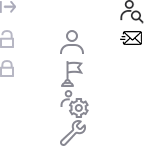
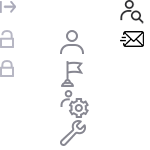
디자인 수정

Changed region(s): [[0.8, 0.1867, 0.96, 0.32]]

diff --git a/assets/scss/_partial/_check.scss b/assets/scss/_partial/_check.scss
@@ -190,7 +190,7 @@ input[type=radio]{
             + label{
                 display: inline-block !important;
                 min-width: rem(65);
-                line-height: rem(44);
+                line-height: rem(42);
                 padding: 0 rem(25);
                 margin-right: rem(5);
                 text-align: center;
@@ -312,7 +312,7 @@ input[type=radio]{
         input[type=radio]{
             + label{
                 min-width: auto;
-                line-height: rem(24);
+                line-height: rem(29);
                 padding: 0 rem(5);
             }
             
@@ -320,7 +320,7 @@ input[type=radio]{
             + input[type=hidden]{
                 + label{
                     min-width: auto;
-                    line-height: rem(24);
+                    line-height: rem(29);
                     padding: 0 rem(5);
                 }
             }
@@ -463,7 +463,7 @@ input[type=radio]{
                 //width: rem(63); //221202
                 width: rem(72);  
                 min-width: rem(60);
-                line-height: rem(32);
+                line-height: rem(29);
                 margin-right: -2px;            
             }        
         }
@@ -472,7 +472,7 @@ input[type=radio]{
         input[type=checkbox],
         input[type=radio]{
             + label{
-                line-height: rem(35);
+                line-height: rem(34);
                 padding: 0 rem(6);
                 min-width: max-content;      
             }        

diff --git a/view/styleGuide.html b/view/styleGuide.html
@@ -439,7 +439,7 @@
                             </li>            
                             <li>
                                 <span style="width:150px;">only icon</span>
-                                <span class="size">min 48px * 44px</span>
+                                <span class="size">min 44px * 44px</span>
                                 <!-- <button class="white laSize">
                                     <i class="ico download"></i>엑셀저장   
                                 </button>     -->
@@ -457,6 +457,17 @@
                                     <i class="ico filter"></i>
                                 </button>
                                 <button class="onlyIco lowSize">
+                                    <i class="ico refresh"></i>
+                                </button>
+                            </li>
+                            <li>
+                                <span style="width:150px;">only icon (midSize)</span>
+                                <span class="size">min 36px * 36px</span>
+
+                                <button class="onlyIco midSize">
+                                    <i class="ico filter"></i>
+                                </button>
+                                <button class="onlyIco midSize">
                                     <i class="ico refresh"></i>
                                 </button>
                             </li>

diff --git a/assets/scss/_partial/_btn.scss b/assets/scss/_partial/_btn.scss
@@ -176,8 +176,8 @@ button,
     &.onlyIco{
         // width: rem(40); 
         // height: rem(40);
-        width: rem(48);
-        height: rem(46);
+        width: rem(44);
+        height: rem(44);
         background-color: $white;
         border: 1px solid $inputGray;
         @include heightArray;
@@ -189,17 +189,24 @@ button,
         }
         &.smSize{
             padding: 0;
-            width: rem(25);
+            width: rem(26);
             min-width: auto;
             line-height: rem(24);
             height: rem(26);
         }
         &.midSize{
             padding: 0;
-            width: rem(40);
+            width: rem(36);
             min-width: auto;
-            line-height: rem(40);
-            height: rem(42);
+            line-height: rem(36);
+            height: rem(36);
+        }
+        &.lowSize{
+            padding: 0;
+            width: rem(32);
+            min-width: auto;
+            line-height: rem(30);
+            height: rem(32);
         }
         &:disabled{
             opacity: .5;

diff --git a/assets/scss/_partial/_gnb.scss b/assets/scss/_partial/_gnb.scss
@@ -35,7 +35,7 @@
     }    
     .navWrapper{
         height: calc(100vh - 105px);
-        margin-top: rem(20);
+        margin-top: rem(10);
         //margin-left: rem(3);
         overflow-y: auto;
         > ul{
@@ -74,6 +74,8 @@
                 display: block;
                 padding: rem(10) rem(13);
                 padding-left: rem(15);
+                // display: flex;
+                // align-items: center;
                 span{
                     opacity: .8;
                 }
@@ -99,7 +101,8 @@
         .menuTxt{
             display: none;
             color: $white;
-            margin-left: rem(14);
+            font-size: rem(15);
+            margin-left: rem(15);
             vertical-align: middle;
             // position: relative;
             position: absolute;

diff --git a/view/layout.html b/view/layout.html
@@ -81,9 +81,8 @@
                     <h2>회원검색</h2>
                     <div class="yScroll">
                         <div class="hasBtn">  
-                            <a href="#" class="button white midSize filter">
+                            <a href="#" class="button onlyIco midSize">
                                 <i class="ico filter"></i>
-                                필터
                             </a>     
                             <div class="inputIco">
                                 <input type="text" id="search" class="" maxlength="" placeholder="이름, 스킬, 휴대폰 4자리,  메모 검색 (띄어쓰기로 and 검색)">

diff --git a/assets/scss/_partial/_quickView.scss b/assets/scss/_partial/_quickView.scss
@@ -5,8 +5,8 @@
     // padding: rem(40);
     width: rem(320);
     background: $white;
-    border:1px solid $tabGray;  
-    //box-shadow: -8px 8px 10px 0 rgba(0, 0, 0, 0.2);
+    //border: 1px solid $tabGray;  
+    box-shadow: -1px 1px 1px 0 rgba(100, 100, 100, 0.1);
     &.fixedHeight{
         width: 0;
         position: fixed;
@@ -97,7 +97,7 @@
             height: calc(100vh - 180px);
         }
         li{            
-            margin-top: rem(20);
+            margin-top: rem(12);
             &:first-child{
                 margin-top: 0;
             }

diff --git a/assets/scss/_partial/_rightPanel.scss b/assets/scss/_partial/_rightPanel.scss
@@ -14,7 +14,7 @@
         }
         &.mail{
 
-            background-position: -120px -40px;
+            background-position: -120px -30px;
 
         }
     }
@@ -23,7 +23,7 @@
 .rPanelLayer{
     font-size: rem(14);
     .rPanelBox{
-        padding: rem(30);
+        padding: rem(20);
         height: calc(100vh - 60px);
         border: 1px solid $layoutColor;
         border-top:0;

diff --git a/assets/scss/_partial/_layout.scss b/assets/scss/_partial/_layout.scss
@@ -192,7 +192,7 @@
     &.is-active{
         .gnbWrapper{
             width: rem(180);
-            background-image: linear-gradient(to bottom, $highlight, $gnbGreen);
+            background-image: linear-gradient(to bottom, #0460d2, #1983cb, #47b892);
             .navCtrlBtn{
                 width: calc(100% - 24px);
                 height: rem(36);

diff --git a/assets/scss/_partial/_page_memDetail.scss b/assets/scss/_partial/_page_memDetail.scss
@@ -66,6 +66,7 @@
     height: calc(100vh - 180px);
     .resuTop{
         text-align: right;
+        padding-bottom: rem(10);
     }
     .resuBox{    
         height: calc(100vh - 250px);
@@ -74,7 +75,7 @@
 }
 .resume{
     display: flex;
-    margin-top: rem(8);
+    //margin-top: rem(8);
     //height: rem(756);
     ul{
         li{

diff --git a/assets/scss/_partial/_title.scss b/assets/scss/_partial/_title.scss
@@ -1,7 +1,6 @@
 //로그인 타이틀
 h1{    
     font-size: rem(54);
-    color: red;
     letter-spacing: -1.93px;
 }
 .h1_sub{
